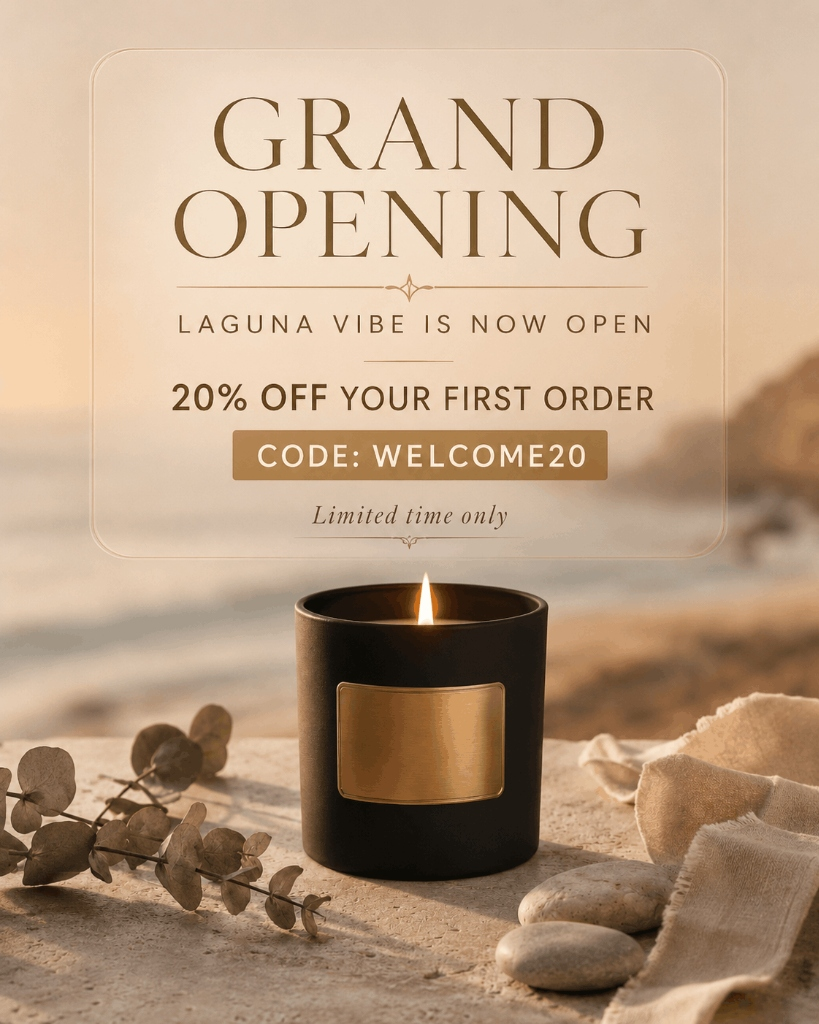
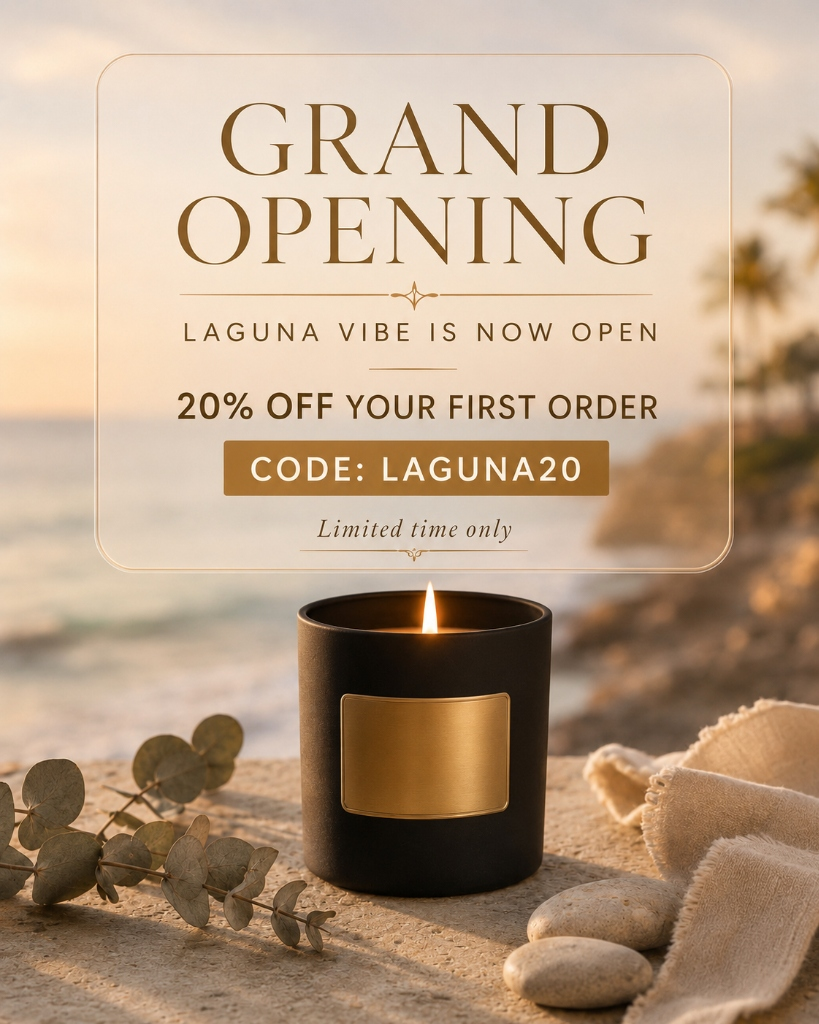
Update welcome grand opening popup image with Laguna Vibe coastal candle design

diff --git a/views/frontend/layouts/popup_modal.php b/views/frontend/layouts/popup_modal.php
@@ -20,7 +20,7 @@ if (!isset($base)) {
         </button>
         <div class="lvb-popup-image-container">
             <img src="<?php echo $base; ?>/img/popup-grand-opening.jpg" 
-                 alt="Laguna Vibe Grand Opening - 20% Off Your First Order - Code: WELCOME20" 
+                 alt="Laguna Vibe Grand Opening - 20% Off Your First Order - Code: LAGUNA20" 
                  class="lvb-popup-main-img" 
                  loading="eager" 
                  draggable="false" />
